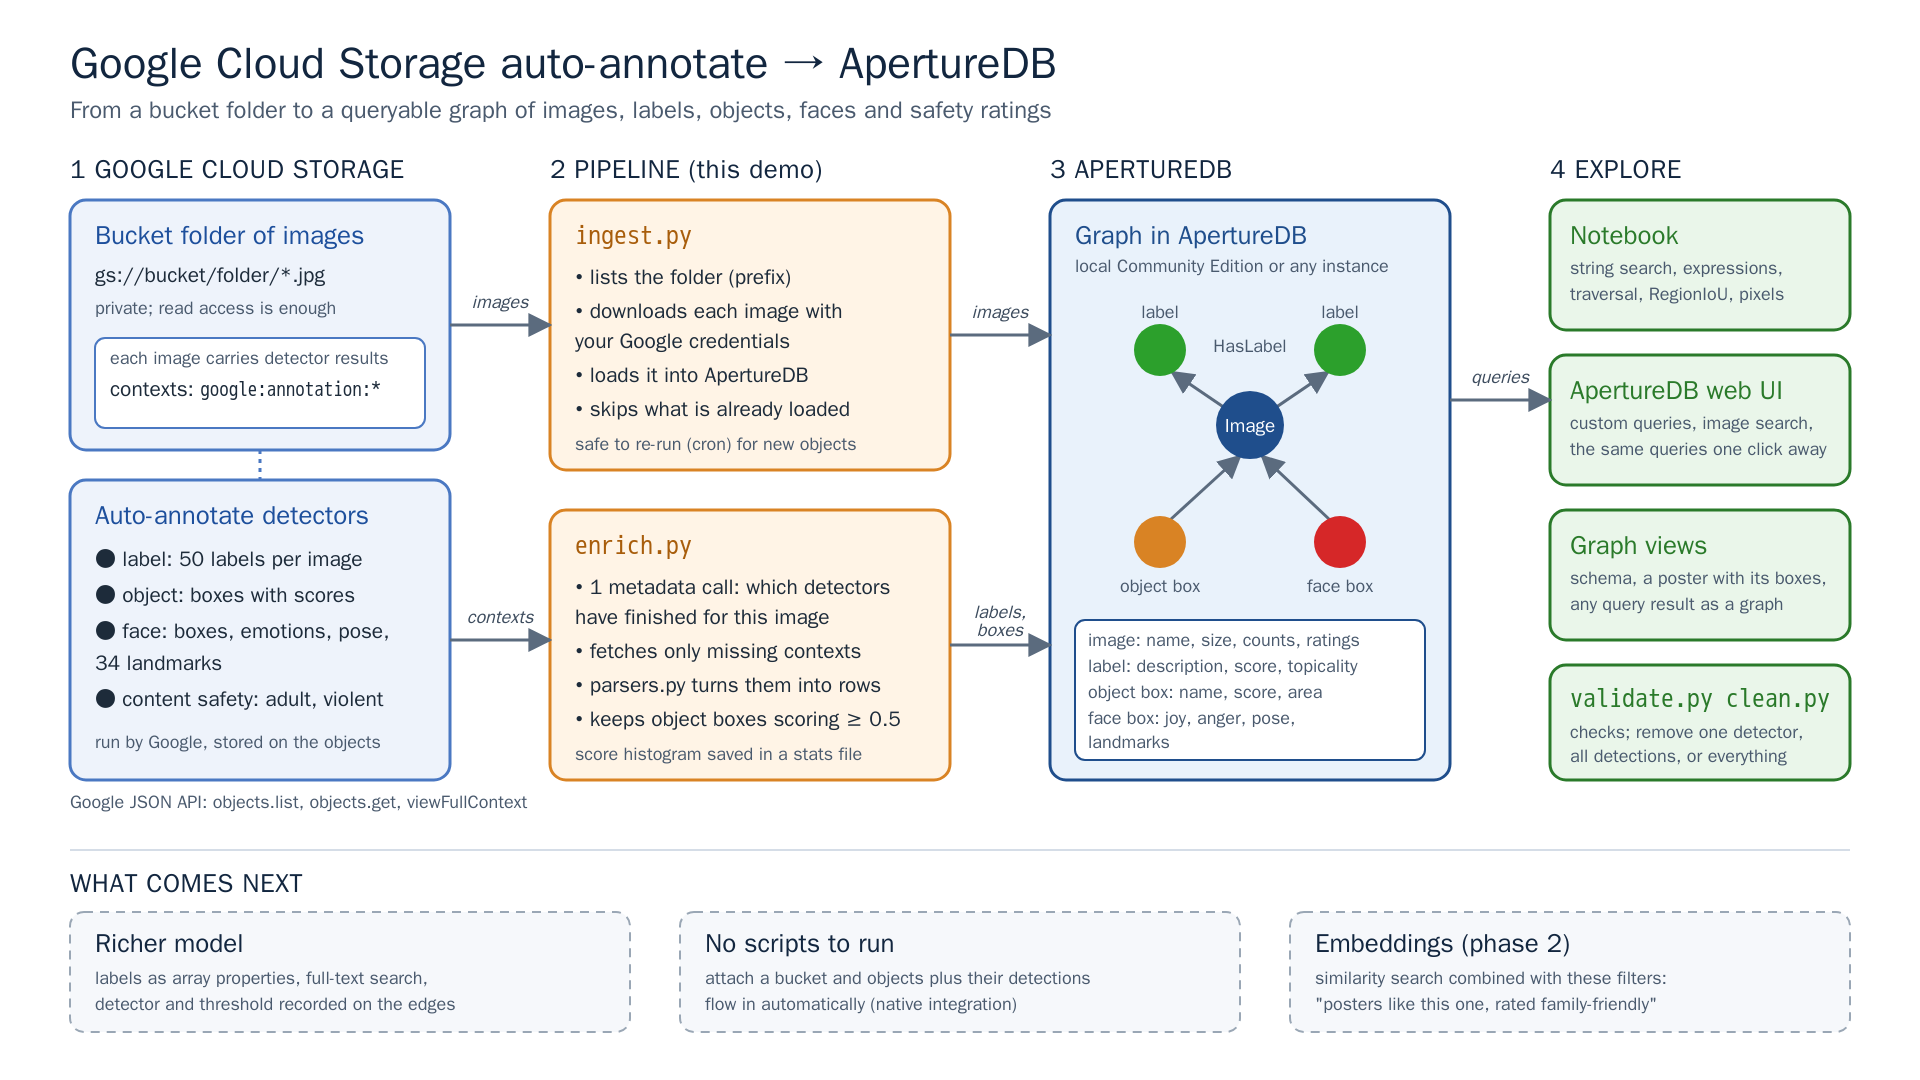
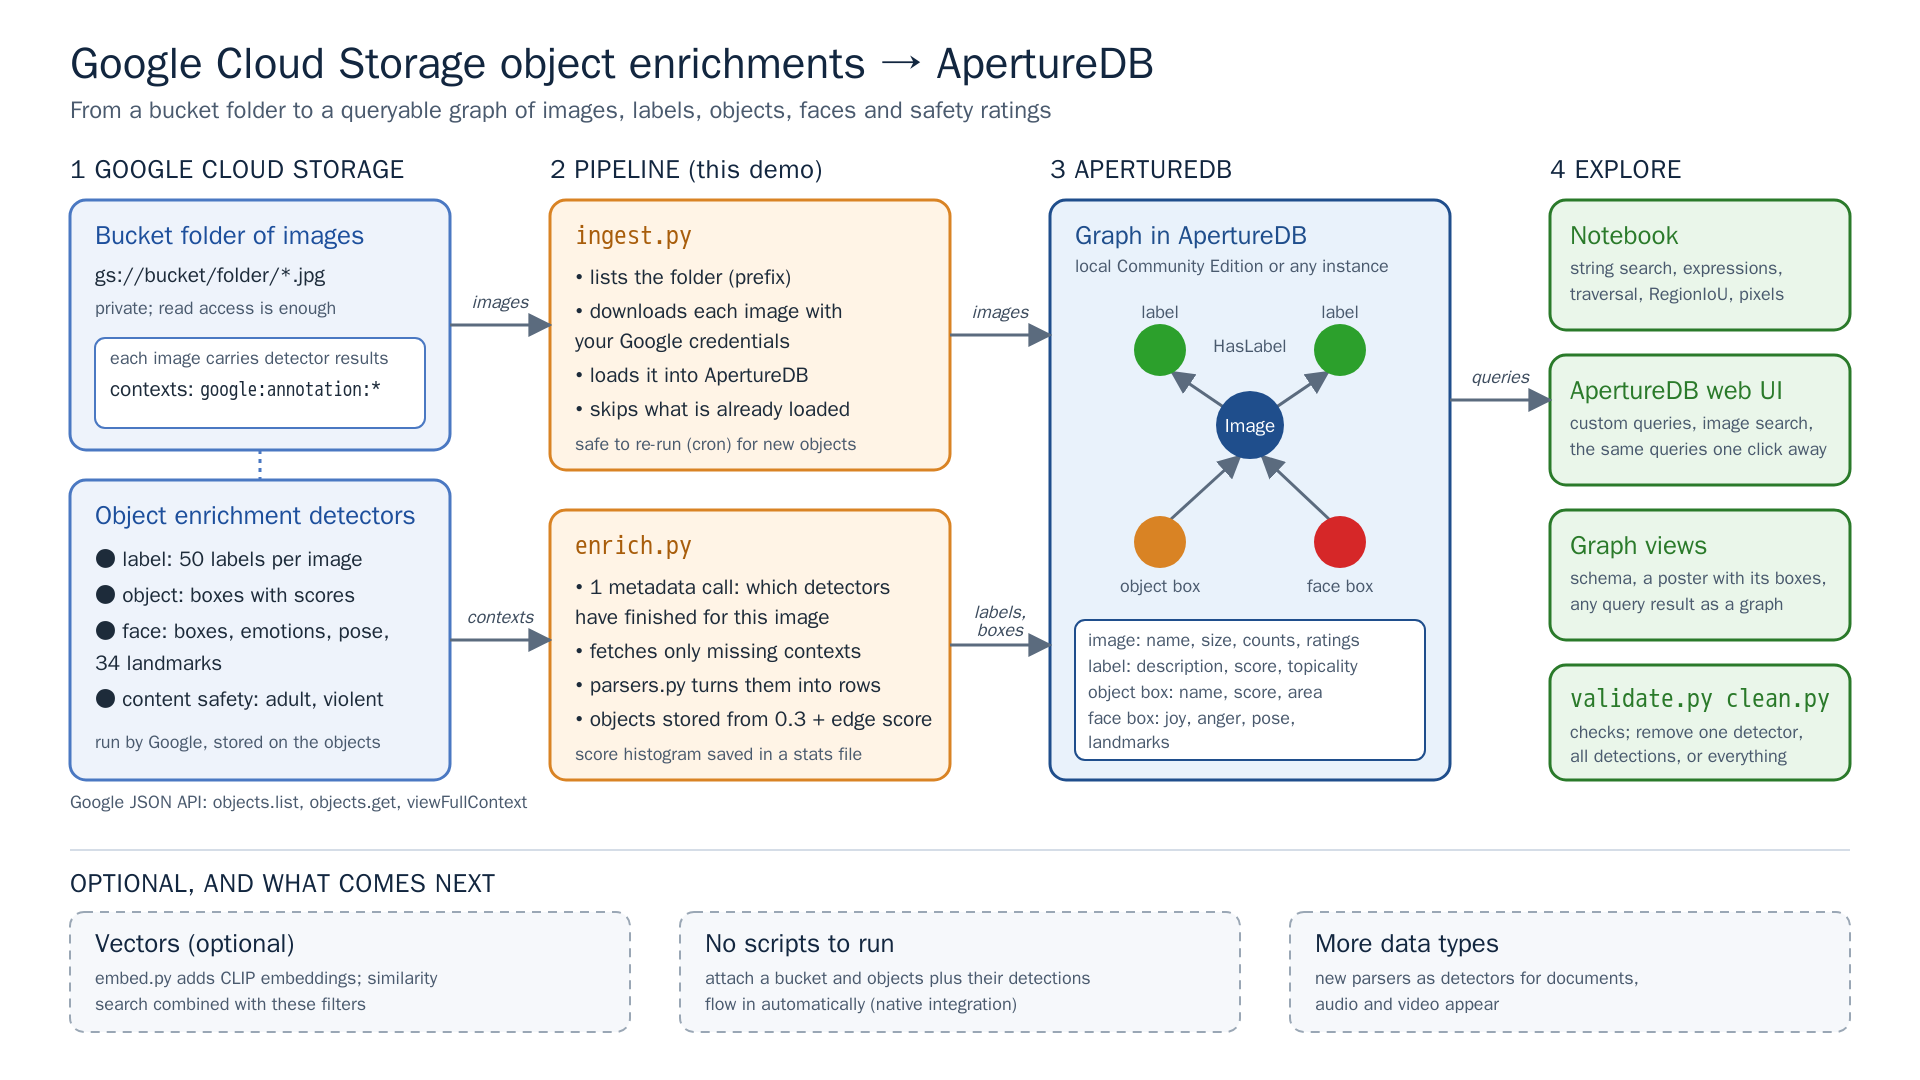
Rename prose to 'object enrichments', document vector search, fix graph views next to descriptors
README and docstrings now say object enrichments; new README section on vector search with metadata; the pipeline
diagram is current (objects stored from 0.3, optional vectors); graph_viz no longer falls back to per-node queries
when a class pair (descriptors) cannot be walked generically.

Claude-Session: https://claude.ai/code/session_019HwT3HTv3nro8SnhiV2J9X

diff --git a/notebooks/gcs-auto-annotate/images/pipeline.html b/notebooks/gcs-auto-annotate/images/pipeline.html
@@ -2,7 +2,7 @@
 <html>
 <head>
 <meta charset="utf-8">
-<title>GCS auto-annotate to ApertureDB: pipeline</title>
+<title>Google Cloud Storage object enrichments to ApertureDB: pipeline</title>
 <style>
   html, body { margin: 0; background: #ffffff; }
   svg { display: block; font-family: -apple-system, "Segoe UI", Roboto, Helvetica, Arial, sans-serif; }
@@ -25,7 +25,7 @@
     <marker id="ahg" viewBox="0 0 10 10" refX="9" refY="5" markerWidth="8" markerHeight="8" orient="auto-start-reverse"><path d="M0,0 L10,5 L0,10 z" fill="#9aa7b5"/></marker>
   </defs>
 
-  <text class="title" x="70" y="78">Google Cloud Storage auto-annotate  &#8594;  ApertureDB</text>
+  <text class="title" x="70" y="78">Google Cloud Storage object enrichments  &#8594;  ApertureDB</text>
   <text class="sub" x="70" y="118">From a bucket folder to a queryable graph of images, labels, objects, faces and safety ratings</text>
 
   <!-- column headings -->
@@ -44,7 +44,7 @@
   <text class="t" x="110" y="396">contexts: <tspan class="mono" font-size="19">google:annotation:*</tspan></text>
 
   <rect x="70" y="480" width="380" height="300" rx="16" fill="#eef3fb" stroke="#4a78c2" stroke-width="3"/>
-  <text class="h" x="95" y="524" fill="#1d4f9c">Auto-annotate detectors</text>
+  <text class="h" x="95" y="524" fill="#1d4f9c">Object enrichment detectors</text>
   <text class="t" x="95" y="566">&#9679; label: 50 labels per image</text>
   <text class="t" x="95" y="602">&#9679; object: boxes with scores</text>
   <text class="t" x="95" y="638">&#9679; face: boxes, emotions, pose,</text>
@@ -68,7 +68,7 @@
   <text class="t" x="575" y="624">   have finished for this image</text>
   <text class="t" x="575" y="658">&#8226; fetches only missing contexts</text>
   <text class="t" x="575" y="692">&#8226; parsers.py turns them into rows</text>
-  <text class="t" x="575" y="726">&#8226; keeps object boxes scoring &#8805; 0.5</text>
+  <text class="t" x="575" y="726">&#8226; objects stored from 0.3 + edge score</text>
   <text class="s" x="575" y="760">score histogram saved in a stats file</text>
 
   <!-- 3: ApertureDB (x 1050..1450) -->
@@ -133,19 +133,19 @@
 
   <!-- bottom band: what is next -->
   <line x1="70" y1="850" x2="1850" y2="850" stroke="#d5dde7" stroke-width="2"/>
-  <text class="col" x="70" y="892" fill="#4a5a6e">WHAT COMES NEXT</text>
+  <text class="col" x="70" y="892" fill="#4a5a6e">OPTIONAL, AND WHAT COMES NEXT</text>
   <rect x="70" y="912" width="560" height="120" rx="14" fill="#f6f8fb" stroke="#9aa7b5" stroke-width="2" stroke-dasharray="9 7"/>
-  <text class="h" x="95" y="952" fill="#12263f" font-size="23">Richer model</text>
-  <text class="s" x="95" y="984">labels as array properties, full-text search,</text>
-  <text class="s" x="95" y="1010">detector and threshold recorded on the edges</text>
+  <text class="h" x="95" y="952" fill="#12263f" font-size="23">Vectors (optional)</text>
+  <text class="s" x="95" y="984">embed.py adds CLIP embeddings; similarity</text>
+  <text class="s" x="95" y="1010">search combined with these filters</text>
   <rect x="680" y="912" width="560" height="120" rx="14" fill="#f6f8fb" stroke="#9aa7b5" stroke-width="2" stroke-dasharray="9 7"/>
   <text class="h" x="705" y="952" fill="#12263f" font-size="23">No scripts to run</text>
   <text class="s" x="705" y="984">attach a bucket and objects plus their detections</text>
   <text class="s" x="705" y="1010">flow in automatically (native integration)</text>
   <rect x="1290" y="912" width="560" height="120" rx="14" fill="#f6f8fb" stroke="#9aa7b5" stroke-width="2" stroke-dasharray="9 7"/>
-  <text class="h" x="1315" y="952" fill="#12263f" font-size="23">Embeddings (phase 2)</text>
-  <text class="s" x="1315" y="984">similarity search combined with these filters:</text>
-  <text class="s" x="1315" y="1010">"posters like this one, rated family-friendly"</text>
+  <text class="h" x="1315" y="952" fill="#12263f" font-size="23">More data types</text>
+  <text class="s" x="1315" y="984">new parsers as detectors for documents,</text>
+  <text class="s" x="1315" y="1010">audio and video appear</text>
 </svg>
 </body>
 </html>

diff --git a/notebooks/gcs-auto-annotate/tests/test_graph_viz.py b/notebooks/gcs-auto-annotate/tests/test_graph_viz.py
@@ -228,3 +228,16 @@ def test_cli_schema_and_node(db, poster, tmp_path, capsys):
     assert gv.main(["node", "_Image", "--where", f"id={image}", "--label", "_Image=gcs_object_stem",
                     "--out", str(tmp_path / "n.html")]) == 0
     assert (tmp_path / "s.html").exists() and (tmp_path / "n.html").exists()
+
+
+def test_unrelated_batch_error_does_not_disable_batching():
+    """E.g. descriptors need a set name: that class pair is skipped, the batched path stays on for the rest."""
+    class Stub:
+        def query(self, q, blobs=None):
+            return [{"FindImage": {"status": 0, "entities": []}},
+                    {"FindDescriptor": {"status": -1, "info": "FindDescriptor requires a set"}}], []
+
+    stub = Stub()
+    gv._BATCHED.clear()
+    assert gv._neighbours(stub, "_Image", ["1.0.1"], "_DescriptorToImage", "_Descriptor", 3, None) == {}
+    assert gv._BATCHED.get(id(stub), True) is True

diff --git a/notebooks/gcs-auto-annotate/graph_viz.py b/notebooks/gcs-auto-annotate/graph_viz.py
@@ -194,6 +194,9 @@ def _neighbours(client, cls, ids, conn_class, other, per_class, sort):
         if status is not None and status.get("status", 0) == 0 and isinstance(status.get("entities"), dict):
             _BATCHED[key] = True
             return status["entities"]
+        info = str(resp.get("info") if isinstance(resp, dict) else (status or {}).get("info"))
+        if "group_by_source" not in info and "per_group" not in info:
+            return {}  # this class pair cannot be walked generically (e.g. descriptors need a set name): skip it
         _BATCHED[key] = False
     groups = {}
     for uid in ids:

diff --git a/notebooks/gcs-auto-annotate/ingest.py b/notebooks/gcs-auto-annotate/ingest.py
@@ -4,7 +4,7 @@
     python ingest.py --bucket my-bucket --prefix posters/ [--limit 200]
 
 Safe to re-run: objects already ingested for the same dataset are skipped, so it only adds what
-is new in the folder.  Run ``enrich.py`` afterwards to attach the GCS auto-annotate detections.
+is new in the folder.  Run ``enrich.py`` afterwards to attach the Google Cloud Storage object enrichments (the detections).
 """
 import argparse
 import io

diff --git a/notebooks/gcs-auto-annotate/parsers.py b/notebooks/gcs-auto-annotate/parsers.py
@@ -1,4 +1,4 @@
-"""Pure functions: GCS auto-annotate context objects -> ApertureDB data.
+"""Pure functions: Google Cloud Storage object-enrichment contexts -> ApertureDB data.
 
 No network, no database - everything here is unit-testable with the JSON fixtures in
 tests/fixtures.  When the detectors change (new fields, new detector types), this is the file

diff --git a/notebooks/gcs-auto-annotate/fetch.py b/notebooks/gcs-auto-annotate/fetch.py
@@ -1,5 +1,5 @@
 #!/usr/bin/env python3
-"""Copy a bucket folder and its auto-annotate results from Google into a local cache folder.
+"""Copy a bucket folder and its object enrichments from Google into a local cache folder.
 
     python fetch.py --bucket my-bucket --prefix posters/ --cache-dir ./gcs-cache [--threads 12]
 

diff --git a/notebooks/gcs-auto-annotate/enrich.py b/notebooks/gcs-auto-annotate/enrich.py
@@ -1,5 +1,5 @@
 #!/usr/bin/env python3
-"""Attach GCS auto-annotate detections to the images ``ingest.py`` loaded.
+"""Attach the Google Cloud Storage object enrichments (detections) to the images ``ingest.py`` loaded.
 
     python enrich.py --bucket my-bucket --prefix posters/ [--confidence-threshold 0.5]
 

diff --git a/notebooks/gcs-auto-annotate/README.md b/notebooks/gcs-auto-annotate/README.md
@@ -1,21 +1,21 @@
-# Google Cloud Storage auto-annotate in ApertureDB
+# Google Cloud Storage object enrichments in ApertureDB
 
-Google Cloud Storage's **auto-annotate** runs detectors on the images in a bucket (faces, objects, labels,
-content safety) and stores the results on each object. This demo copies a bucket folder **and** those
-detections into ApertureDB and shows what you can ask once they are a graph: string search, comparisons
-between properties, multi-hop traversal, overlap between boxes from different detectors, and pictures
-straight from the query result.
+Google Cloud Storage **object enrichments** run detectors on the images in a bucket (faces, objects, labels,
+content safety) and store the results on each object. (Google's documentation may also call this feature
+*auto-annotate*.) This demo copies a bucket folder **and** those detections into ApertureDB and shows what you can
+ask once they are a graph: string search, comparisons between properties, multi-hop traversal, overlap between
+boxes from different detectors, similarity search restricted by the detections, and pictures straight from the
+query result.
 
 ![A poster with the boxes the detectors found, and its labels and boxes as a graph](images/poster_graph.png)
 
 > **Structured metadata first, vectors on top.** The detectors return labels, boxes and ratings, not embeddings. `embed.py`
 > adds a CLIP embedding per poster (optional), so the same ask can be answered by similarity alone or by similarity
-> restricted with the detectors' metadata (`demo.ipynb`, `quality.ipynb`). Embeddings generated by GCS itself would
-> slot in the same way later.
+> restricted with the detectors' metadata (`demo.ipynb`, `quality.ipynb`; see *Vector search and metadata together*).
 
 ## How it fits together
 
-![Pipeline: bucket folder and auto-annotate detectors, ingest.py and enrich.py, the graph in ApertureDB, and the ways to explore it](images/pipeline.png)
+![Pipeline: bucket folder and object enrichment detectors, ingest.py and enrich.py, the graph in ApertureDB, and the ways to explore it](images/pipeline.png)
 
 `ingest.py` and `enrich.py` talk to the Google JSON API (`objects.list`, `objects.get`, `viewFullContext`) and to
 ApertureDB; everything on the right of the graph reads only from ApertureDB. The editable source of the diagram
@@ -23,7 +23,7 @@ is [`images/pipeline.html`](images/pipeline.html).
 
 ## Quick start
 
-You need Python 3.10+, Docker, and read access to a bucket that has auto-annotate results.
+You need Python 3.10+, Docker, and read access to a bucket that has object enrichment results.
 
 ```bash
 ./setup.sh                      # python environment + a local ApertureDB Community Edition in Docker
@@ -31,8 +31,8 @@ gcloud auth login               # or: gcloud auth application-default login
 ./demo.sh --bucket YOUR_BUCKET --prefix YOUR/FOLDER/ --limit 100     # a small slice first
 ```
 
-Then explore: `jupyter lab queries.ipynb`, or use the notebook container (below). Remove `--limit` for the
-whole folder.
+Then explore: `jupyter lab demo.ipynb` (the short version) or `queries.ipynb` (the full tour), or use the notebook
+container (below). Remove `--limit` for the whole folder. ApertureDB **0.19.14 or newer** is required (the compose file pins it).
 
 ## Choose your ApertureDB
 
@@ -125,8 +125,8 @@ range filter. Boxes are native ApertureDB bounding boxes, so commands such as `R
 ## What it shows
 
 [`demo.ipynb`](demo.ipynb) is the short version: one ask answered by vector search alone and then with the detector metadata; [`quality.ipynb`](quality.ipynb) scores such searches against independent TMDB genres. [`queries.ipynb`](queries.ipynb) walks through these (each with a title and what it shows: what is in the data - labels and
-safety ratings counted with `results.group` -, a headline question, not-safe-for-work and family-friendly filters, string search,
-expressions, graph traversal, spatial); every query is also in [`queries/`](queries/README.md) as
+safety ratings counted with `results.group` -, a headline question, family-friendly filters, string search including typo-tolerant
+word search, expressions, graph traversal including edge properties, spatial); every query is also in [`queries/`](queries/README.md) as
 JSON to paste into the web UI's query editor. With the `ui` profile running, open
 http://localhost:8088/load-queries.html once and all of them appear under **Queries** in the UI's Custom Query page
 (the UI keeps saved queries in the browser, so do this once per browser).
@@ -139,6 +139,25 @@ http://localhost:8088/load-queries.html once and all of them appear under **Quer
 * **Spatial** - `RegionIoU` between a person box and a face box.
 * **Pixels** - the result can be the cropped faces themselves.
 
+## Vector search and metadata together
+
+Similarity search finds what a poster *looks like*; it cannot tell a smile from a smiley, a cartoon or a gesture, and it knows nothing
+about content ratings. The detector results can. In ApertureDB the two combine in one query: the metadata filter runs *inside* the
+nearest-neighbour search, so you still get `k` results, all of which satisfy the filter.
+
+```bash
+pip install -r requirements-embeddings.txt        # torch (CPU is fine) + open_clip
+python embed.py --bucket YOUR_BUCKET --prefix YOUR/FOLDER/       # about a second per poster on a laptop CPU
+```
+
+* [`demo.ipynb`](demo.ipynb): one ask, "a family-friendly animated movie where everyone looks happy", answered side by side by
+  vector search alone and by vector search + metadata, with the counts a viewer cares about (unhappy faces, ratings) and the
+  index's recall against an exact brute-force search.
+* [`quality.ipynb`](quality.ipynb): several asks, scored two ways: from the stored detector values, and against **TMDB genres**
+  (public data, independent of the detectors) for the posters in the sample dataset.
+* The embeddings are CLIP ViT-B/16 (512 dimensions, cosine, HNSW). They are identical to what ApertureDB's embeddings workflow
+  produces by default, so a set made by that workflow is interchangeable. `vector_search.py` holds the query builders.
+
 ## Graph views
 
 `graph_viz.py` draws the database as an interactive graph (a rewrite of the helper from aperture-nexus that works
@@ -147,11 +166,13 @@ for any schema).
 ```bash
 python graph_viz.py schema                                    # classes and connections with live counts
 python graph_viz.py node _Image --where gcs_object_stem=10028 --label _Image=gcs_object_stem --open
-python graph_viz.py query queries/11_happy_frontal_faces.json --label _Image=gcs_object_stem --open
+python graph_viz.py query queries/12_happy_frontal_faces.json --label _Image=gcs_object_stem --open
 ```
 
-Click a node for its properties, its picture with every stored box drawn over it, and the query that fetches it.
-The legend hides a class; the search box dims what does not match. In a notebook the same functions
+Click a node for its properties, its picture with every stored box drawn over it, and the query that fetches it
+(the × button, Esc or a click on the background closes the panel; clicking never moves the view or the layout).
+The layout settles and then stays put, drag a node to move it; **Fit view** shows the whole graph and **Re-layout** lets
+it move again. The legend hides a class; the search box dims what does not match. In a notebook the same functions
 (`render_schema`, `render_neighborhood`, `render_query`) show inline. The page loads its graph library from a CDN,
 so the browser needs internet access.
 
@@ -178,7 +199,7 @@ Tests that need a database skip themselves if none is reachable; none of them ne
 ## Troubleshooting
 
 * `No Google credentials found` / `Reauthentication failed` - run `gcloud auth login` yourself in a terminal.
-* `enrich.py` stores nothing - the objects have no auto-annotate results yet (`validate.py --gcs` shows what GCS finished).
+* `enrich.py` stores nothing - the objects have no object enrichment results yet (`validate.py --gcs` shows what GCS finished).
 * Port already in use - set `APERTUREDB_PORT`, `WEBUI_PORT` or `NOTEBOOK_PORT` in the environment before `docker compose up`.
 * Graph page is blank - the browser could not reach the CDN (`esm.sh`, `cdn.jsdelivr.net`).
 
@@ -192,7 +213,7 @@ Tests that need a database skip themselves if none is reachable; none of them ne
 | Labels stay one node per label (no array property) | Per-label counts (the vocabulary), shared-label traversal, label nodes in the graph views, per-label scores and substring search (`icontains`) all work on nodes; an array property would be faster to load but loses them. |
 | `gcs_detectors` is a list property | The detectors stored per image, used to skip finished work on a re-run. |
 | Indexes: a `type` index next to every ordered / trigram index | ApertureDB 0.19.14 only uses an ordered or trigram index together with a `type` index on the same property; `model.ensure_indexes` creates both, plus a full-text index on the label text. |
-| Face landmarks as one JSON property, no polygons | A polygon is 2D with a single label, so it cannot hold landmark depth or names, and the points do not form a closed shape. Nothing in phase 1 needs eye or mouth regions. |
+| Face landmarks as one JSON property, no polygons | A polygon is 2D with a single label, so it cannot hold landmark depth or names, and the points do not form a closed shape. Nothing here needs eye or mouth regions. |
 | Likelihood enums also stored as a numeric `_rank`; counts and maxima stored on the image | "At least POSSIBLE" becomes a range filter, and "crowded posters" becomes a plain filter. |
 | Idempotent writes | Image ids hash the object path; every box and label has a deterministic `det_id` and uses `if_not_found`. Re-running never duplicates, which is also how a growing bucket is followed. |
 | Ingestion, enrichment and cleanup are separate, selective steps | Re-run queries or redo one detector without re-downloading images; `clean.py` removes one detector, all enrichment, or everything. |
@@ -201,8 +222,7 @@ Tests that need a database skip themselves if none is reachable; none of them ne
 
 ## What's coming
 
-* **Phase 2:** embeddings generated by GCS, ingested next to these properties, for filtered vector search
-  (similar posters among the family-friendly ones, similar faces among the smiling ones, ...).
+* **Embeddings from the source:** if the enrichments ever include embeddings, they slot in next to the CLIP ones (or replace them) in the same descriptor set.
 * **Native integration and a GCP-aware workflow** (paths C and D above): point ApertureDB at a bucket and have
   objects and detections loaded automatically; the cron job in this README is the stopgap they replace.
 * **More detector types** such as PDF and video: new branches in `parsers.py` and `model.py`.
